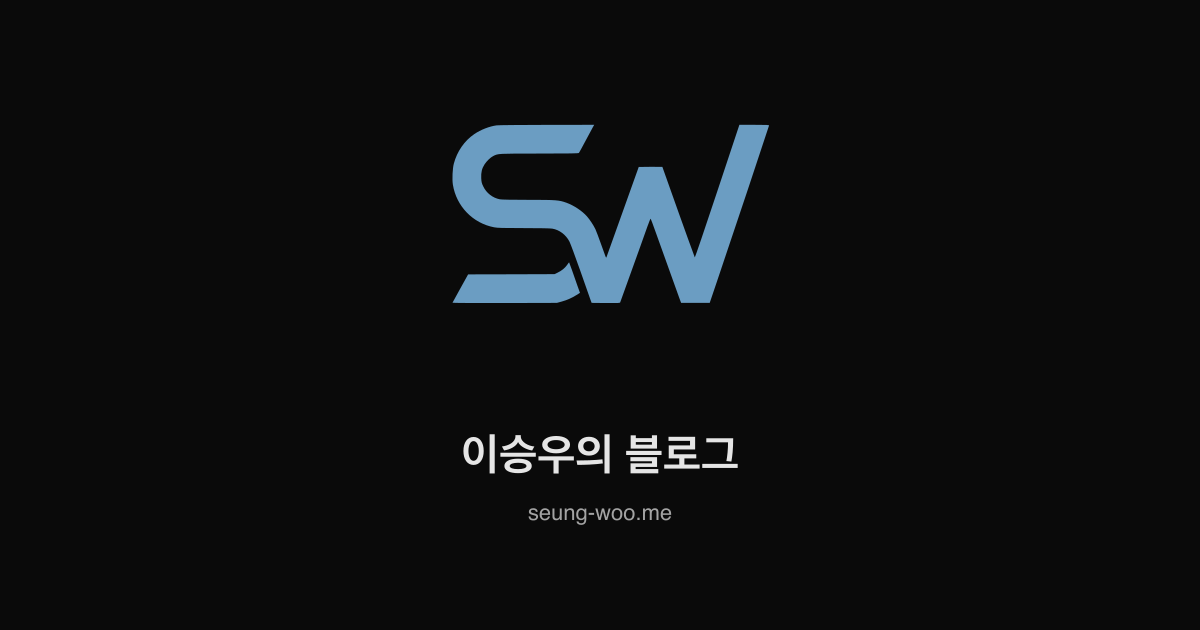
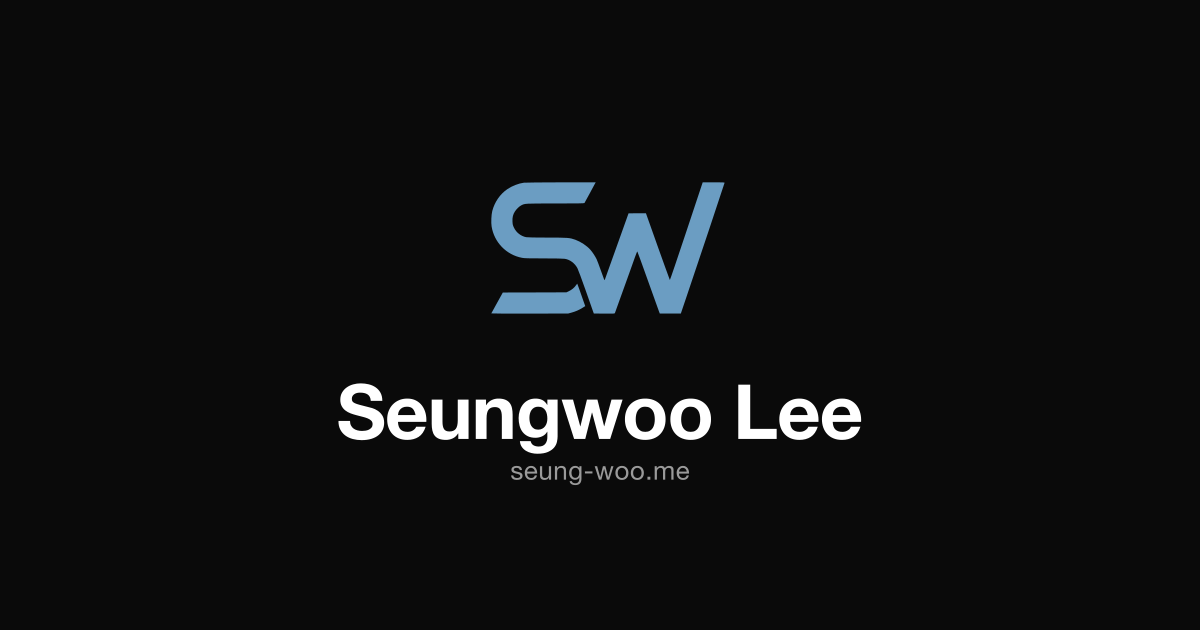
chore: rebrand site title to Seungwoo Lee
Replaces "이승우의 블로그" across metadata, RSS feed, chatbot prompt,
and the default OG image with "Seungwoo Lee" — a cleaner, name-first
identifier that works across languages and scales beyond the blog
format. Regenerates og-default.png with a tightened vertical layout.

Changed region(s): [[0.37, 0.181, 0.6475, 0.5127], [0.2775, 0.6032, 0.74, 0.8444]]

diff --git a/src/app/layout.tsx b/src/app/layout.tsx
@@ -23,14 +23,14 @@ const pretendard = localFont({
 export const metadata: Metadata = {
   metadataBase: new URL("https://www.seung-woo.me"),
   title: {
-    default: "이승우의 블로그",
-    template: "%s — 이승우의 블로그",
+    default: "Seungwoo Lee",
+    template: "%s — Seungwoo Lee",
   },
   description: "개발, 여행, 일상 — 기록하고 싶은 모든 것을 담는 블로그",
   openGraph: {
     type: "website",
     locale: "ko_KR",
-    siteName: "이승우의 블로그",
+    siteName: "Seungwoo Lee",
   },
   twitter: {
     card: "summary_large_image",
@@ -62,7 +62,7 @@ export default function RootLayout({
         <link
           rel="alternate"
           type="application/rss+xml"
-          title="이승우의 블로그 RSS"
+          title="Seungwoo Lee RSS"
           href="/feed.xml"
         />
       </head>
@@ -75,7 +75,7 @@ export default function RootLayout({
             __html: JSON.stringify({
               "@context": "https://schema.org",
               "@type": "WebSite",
-              name: "이승우의 블로그",
+              name: "Seungwoo Lee",
               url: "https://www.seung-woo.me",
               description: "개발, 여행, 일상 — 기록하고 싶은 모든 것을 담는 블로그",
               inLanguage: "ko-KR",

diff --git a/src/app/api/chat/route.ts b/src/app/api/chat/route.ts
@@ -4,7 +4,7 @@ import { findRelevantChunks, type RagChunk } from "@/lib/rag";
 
 export const runtime = "edge";
 
-const SYSTEM_PROMPT = `당신은 이승우의 블로그 도우미 챗봇이에요.
+const SYSTEM_PROMPT = `당신은 Seungwoo Lee 블로그의 도우미 챗봇이에요.
 블로그에 있는 글을 기반으로 방문자의 질문에 친절하게 답변해주세요.
 답변은 해요체로 자연스럽게 해주세요.
 블로그 내용과 관련 없는 질문에는 정중하게 블로그 관련 질문을 해달라고 안내해주세요.

diff --git a/src/app/feed.xml/route.ts b/src/app/feed.xml/route.ts
@@ -3,7 +3,7 @@ import { getAllPosts } from "@/lib/mdx";
 export const dynamic = "force-static";
 
 const SITE_URL = "https://www.seung-woo.me";
-const SITE_TITLE = "이승우의 블로그";
+const SITE_TITLE = "Seungwoo Lee";
 const SITE_DESCRIPTION = "개발, 여행, 일상 — 기록하고 싶은 모든 것을 담는 블로그";
 
 function escapeXml(text: string): string {

diff --git a/src/components/home/HeroSection.tsx b/src/components/home/HeroSection.tsx
@@ -36,7 +36,7 @@ export function HeroSection() {
         </span>
       </h1>
       <p className="text-lg text-muted-foreground">
-        코드로 짓고, 이야기로 채우는 공간
+        코드로 짓고 이야기로 채우는 공간
       </p>
     </div>
   );
